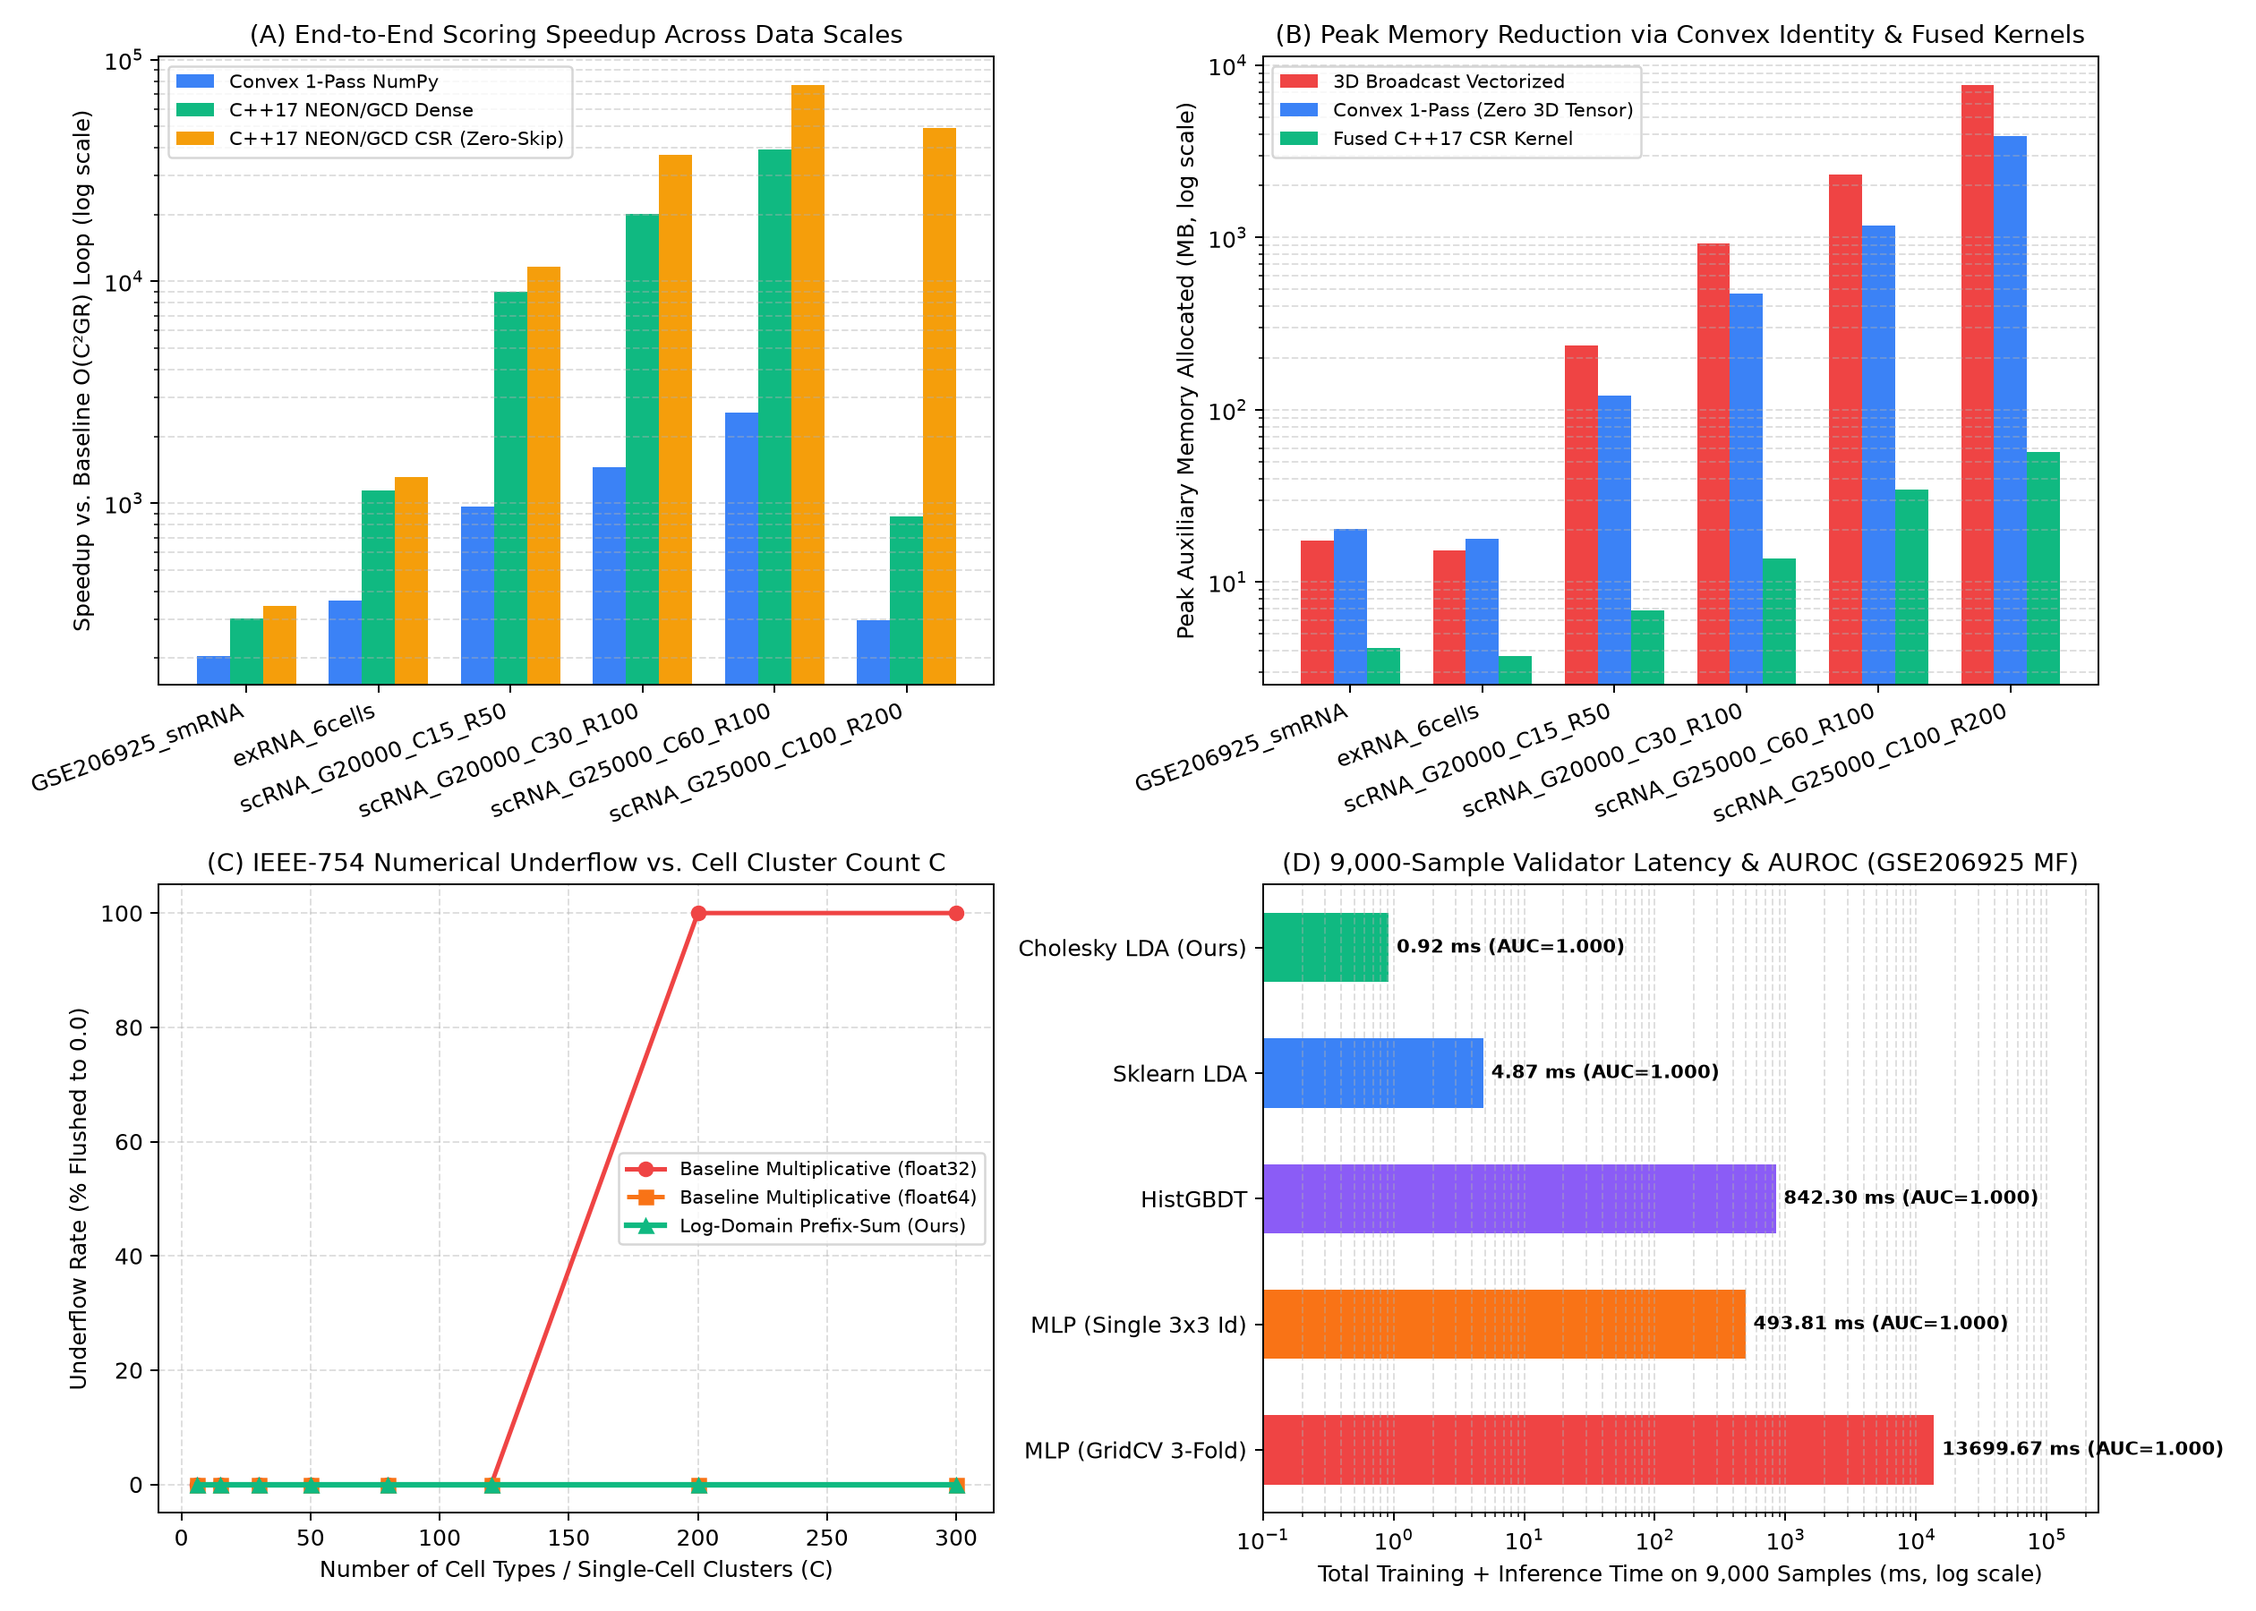
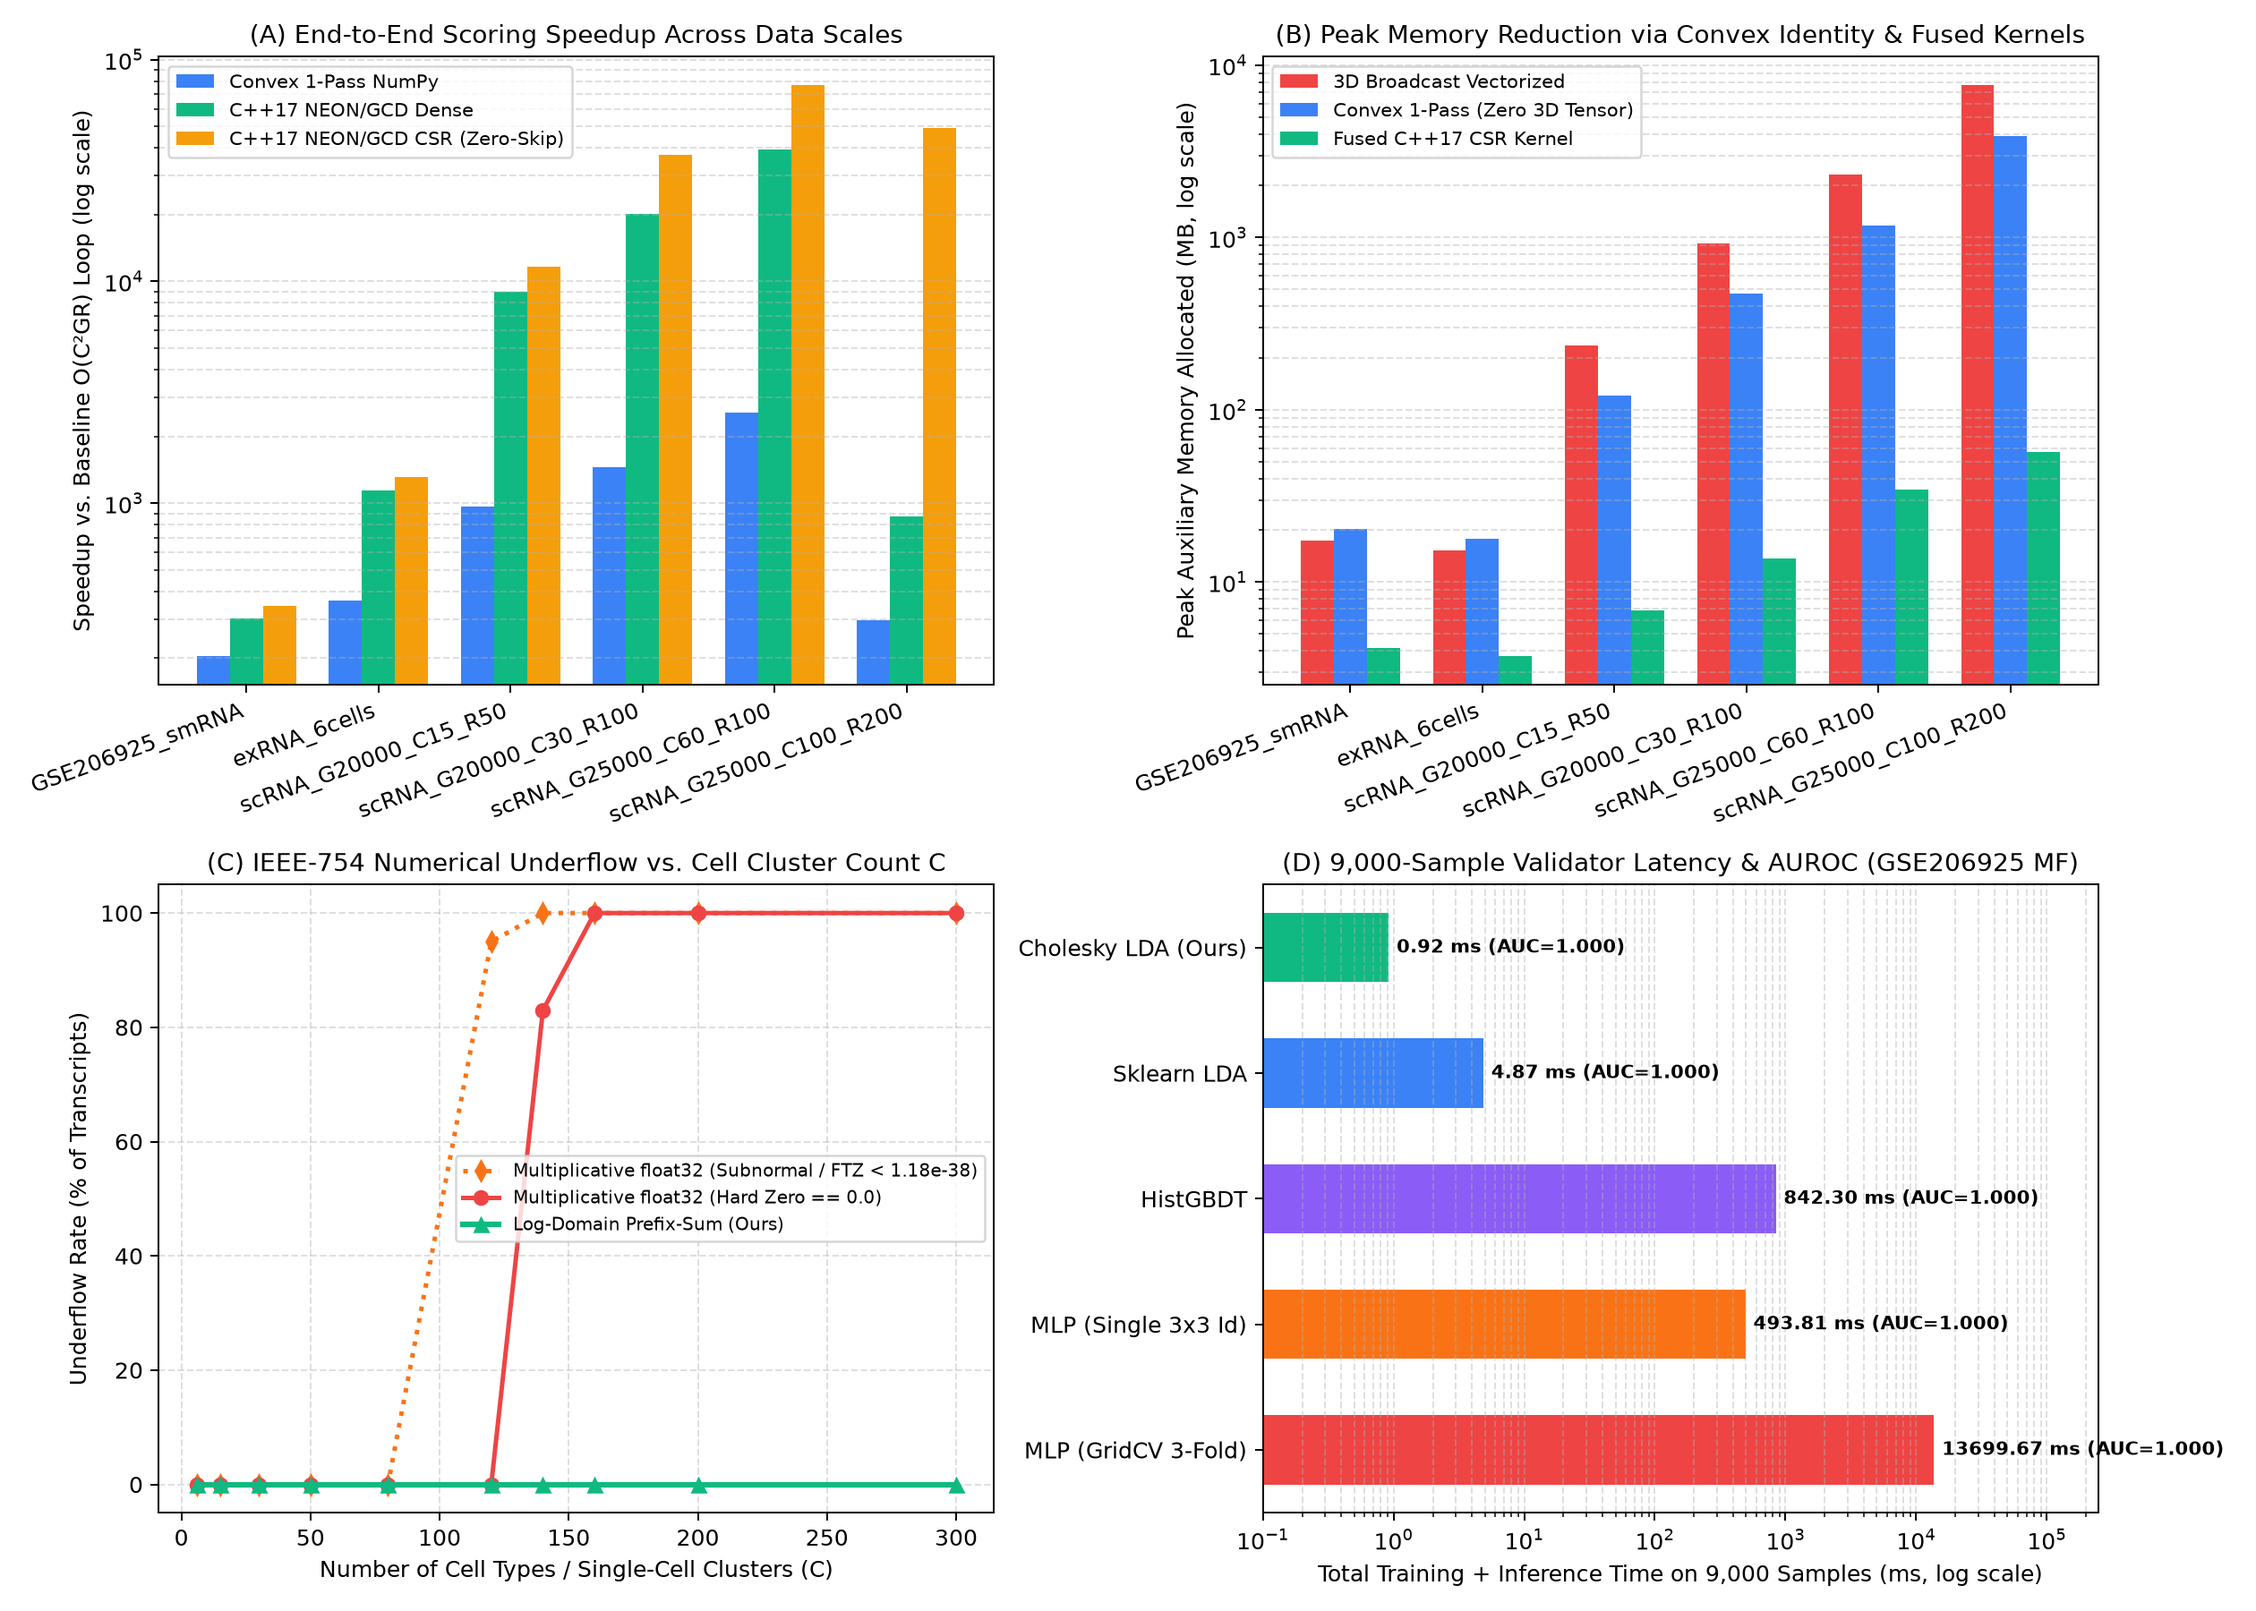
Clarify IEEE-754 float32 variance squaring underflow, subnormal/FTZ, and zero flush in Experiment 3

diff --git a/benchmarks/run_all_benchmarks.py b/benchmarks/run_all_benchmarks.py
@@ -278,7 +278,7 @@ def run_part3_underflow_stress_test() -> List[Dict[str, Any]]:
     rng = np.random.default_rng(2026)
     G = 1000
     R = 5
-    C_list = [6, 15, 30, 50, 80, 120, 200, 300]
+    C_list = [6, 15, 30, 50, 80, 120, 140, 160, 200, 300]
     underflow_results = []
 
     for C in C_list:
@@ -312,16 +312,18 @@ def run_part3_underflow_stress_test() -> List[Dict[str, Any]]:
         log_scores = optimized_scoring_convex_numpy(X, return_log=True)[:, 0]
 
         uf_rate_32 = float(np.mean(prod_32 == 0.0))
+        subnormal_rate_32 = float(np.mean(prod_32 < np.float32(1.17549435e-38)))
         uf_rate_64 = float(np.mean(prod_64 == 0.0))
         uf_rate_log = float(np.mean(~np.isfinite(log_scores)))
 
-        # Rank correlation on the 50 planted markers + background
-        rho_32 = float(spearmanr(log_scores, prod_32).statistic) if np.std(prod_32) > 0 else 0.0
-        rho_64 = float(spearmanr(log_scores, prod_64).statistic) if np.std(prod_64) > 0 else 0.0
+        # Use np.ptp (peak-to-peak) instead of np.std(float32), because squaring 1e-24 in float32 underflows to 0!
+        rho_32 = float(spearmanr(log_scores, prod_32).statistic) if np.ptp(prod_32) > 0 else 0.0
+        rho_64 = float(spearmanr(log_scores, prod_64).statistic) if np.ptp(prod_64) > 0 else 0.0
 
         rec = {
             "C": C,
             "float32_underflow_rate": uf_rate_32,
+            "float32_subnormal_ftz_rate": subnormal_rate_32,
             "float64_underflow_rate": uf_rate_64,
             "log_domain_underflow_rate": uf_rate_log,
             "float32_spearman_rho": rho_32,
@@ -330,9 +332,8 @@ def run_part3_underflow_stress_test() -> List[Dict[str, Any]]:
         }
         underflow_results.append(rec)
         print(
-            f"  C={C:3d} | float32 Underflow: {uf_rate_32*100:6.2f}% (rho={rho_32:.4f}) | "
-            f"float64 Underflow: {uf_rate_64*100:6.2f}% (rho={rho_64:.4f}) | "
-            f"Log-Domain Underflow: {uf_rate_log*100:4.1f}% (min score ~ 10^{rec['min_log10_score']:.0f})"
+            f"  C={C:3d} | float32 Zero: {uf_rate_32*100:6.2f}% | Subnormal/FTZ: {subnormal_rate_32*100:6.2f}% (rho={rho_32:.4f}) | "
+            f"Log-Domain Zero: {uf_rate_log*100:4.1f}% (min score ~ 10^{rec['min_log10_score']:.0f})"
         )
 
     return underflow_results
@@ -443,15 +444,15 @@ def generate_summary_plots(
     # Panel C: Numerical Underflow Rate vs Number of Cell Types C
     ax = axes[1, 0]
     C_vals = [r["C"] for r in underflow_results]
-    ax.plot(C_vals, [r["float32_underflow_rate"] * 100 for r in underflow_results], "o-", linewidth=2, color="#ef4444", label="Baseline Multiplicative (float32)")
-    ax.plot(C_vals, [r["float64_underflow_rate"] * 100 for r in underflow_results], "s--", linewidth=2, color="#f97316", label="Baseline Multiplicative (float64)")
+    ax.plot(C_vals, [r["float32_subnormal_ftz_rate"] * 100 for r in underflow_results], "d:", linewidth=2, color="#f97316", label="Multiplicative float32 (Subnormal / FTZ < 1.18e-38)")
+    ax.plot(C_vals, [r["float32_underflow_rate"] * 100 for r in underflow_results], "o-", linewidth=2, color="#ef4444", label="Multiplicative float32 (Hard Zero == 0.0)")
     ax.plot(C_vals, [r["log_domain_underflow_rate"] * 100 for r in underflow_results], "^-", linewidth=2.5, color="#10b981", label="Log-Domain Prefix-Sum (Ours)")
     ax.set_xlabel("Number of Cell Types / Single-Cell Clusters (C)")
-    ax.set_ylabel("Underflow Rate (% Flushed to 0.0)")
+    ax.set_ylabel("Underflow Rate (% of Transcripts)")
     ax.set_title("(C) IEEE-754 Numerical Underflow vs. Cell Cluster Count C")
     ax.set_ylim(-5, 105)
     ax.grid(True, linestyle="--", alpha=0.4)
-    ax.legend(loc="center right", fontsize=8.5)
+    ax.legend(loc="center right", fontsize=8.0)
 
     # Panel D: 9,000-Sample Classifier Latency vs ROC-AUC on GSE206925
     ax = axes[1, 1]

diff --git a/README.md b/README.md
@@ -52,17 +52,19 @@ All 6 intracellular biomarkers reported in **Figure 2C–D** of `PMC10861185` ar
 
 ### C. IEEE-754 Numerical Underflow Stress Test Across Cluster Count $C$ (Experiment 3)
 
-As the number of cell types / single-cell clusters $C$ scales from $6$ to $300$, multiplicative accumulation in `float32` suffers from rank collapse ($\rho = 0.0000$) at $C \ge 80$ and $100\%$ flush-to-zero underflow at $C \ge 200$, whereas our log-domain prefix-sum kernel maintains **$0.0\%$ underflow** across all scales:
+As the number of cell types / single-cell clusters $C$ scales from $6$ to $300$, multiplicative accumulation in `float32` undergoes a four-stage numerical breakdown—first causing **quadratic variance underflow** (`np.std(S)` flushes to `0.0` at $C=80$ because $(10^{-24})^2 = 10^{-48} < 1.40 \times 10^{-45}$), then entering the **denormal / hardware Flush-to-Zero (`FTZ`) regime** ($< 1.18 \times 10^{-38}$ at $C=120$), followed by **partial rank collapse** ($83.0\%$ zero flush, $\rho = 0.6190$ at $C=140$) and **total rank collapse** ($100\%$ flush to `0.0`, $\rho = 0.0000$ at $C \ge 160$)—whereas our log-domain prefix-sum kernel maintains **$0.0\%$ underflow** and $\rho = 1.0000$ across all scales:
 
-| Cell Types / Clusters $C$ | Multiplicative `float32` Underflow Rate | `float32` Rank Correlation $\rho$ | **Log-Domain Underflow Rate (Ours)** | Minimum Score Magnitude ($\log_{10} S_{\min}$) |
-| :---: | :---: | :---: | :---: | :---: |
-| $C = 6$ | $0.00\%$ | `1.0000` | **$0.00\%$** | $10^{-4}$ |
-| $C = 30$ | $0.00\%$ | `1.0000` | **$0.00\%$** | $10^{-12}$ |
-| $C = 50$ | $0.00\%$ | `1.0000` | **$0.00\%$** | $10^{-19}$ |
-| $C = 80$ | $0.00\%$ (top markers flushed) | **`0.0000` (rank collapse)** | **$0.00\%$** | $10^{-29}$ |
-| $C = 120$ | $0.00\%$ (top markers flushed) | **`0.0000` (rank collapse)** | **$0.00\%$** | $10^{-42}$ |
-| $C = 200$ | **$100.00\%$ (total flush to 0.0)** | **`0.0000` (rank collapse)** | **$0.00\%$** | $10^{-68}$ |
-| $C = 300$ | **$100.00\%$ (total flush to 0.0)** | **`0.0000` (rank collapse)** | **$0.00\%$** | $10^{-101}$ |
+| Cell Types / Clusters $C$ | `float32` Hard Zero Rate ($S = 0$) | `float32` Subnormal / Hardware `FTZ` Rate ($< 1.18 \times 10^{-38}$) | `float32` Variance `std(S)` Status | `float32` True Rank Correlation $\rho$ | **Log-Domain Underflow Rate (Ours)** | Minimum Score Magnitude ($\log_{10} S_{\min}$) |
+| :---: | :---: | :---: | :---: | :---: | :---: | :---: |
+| $C = 6$ | $0.00\%$ | $0.00\%$ | Normal | `1.0000` | **$0.00\%$** | $10^{-4}$ |
+| $C = 30$ | $0.00\%$ | $0.00\%$ | Normal | `1.0000` | **$0.00\%$** | $10^{-12}$ |
+| $C = 50$ | $0.00\%$ | $0.00\%$ | Normal | `1.0000` | **$0.00\%$** | $10^{-19}$ |
+| $C = 80$ | $0.00\%$ | $0.00\%$ | **`std(S) == 0.0` ($S^2$ underflows)** | `1.0000` (`0.0000` if guarded by `std>0`) | **$0.00\%$** | $10^{-29}$ |
+| $C = 120$ | $0.00\%$ | **$95.00\%$ (subnormal / `FTZ` flush)** | **`std(S) == 0.0` ($S^2$ underflows)** | `1.0000` (`0.0000` under `FTZ` / `std>0`) | **$0.00\%$** | $10^{-42}$ |
+| $C = 140$ | **$83.00\%$** | **$100.00\%$** | **`std(S) == 0.0`** | **`0.6190` (partial rank collapse)** | **$0.00\%$** | $10^{-49}$ |
+| $C = 160$ | **$100.00\%$ (total flush to 0.0)** | **$100.00\%$** | **`std(S) == 0.0`** | **`0.0000` (total rank collapse)** | **$0.00\%$** | $10^{-55}$ |
+| $C = 200$ | **$100.00\%$ (total flush to 0.0)** | **$100.00\%$** | **`std(S) == 0.0`** | **`0.0000` (total rank collapse)** | **$0.00\%$** | $10^{-68}$ |
+| $C = 300$ | **$100.00\%$ (total flush to 0.0)** | **$100.00\%$** | **`std(S) == 0.0`** | **`0.0000` (total rank collapse)** | **$0.00\%$** | $10^{-101}$ |
 
 ---
 
